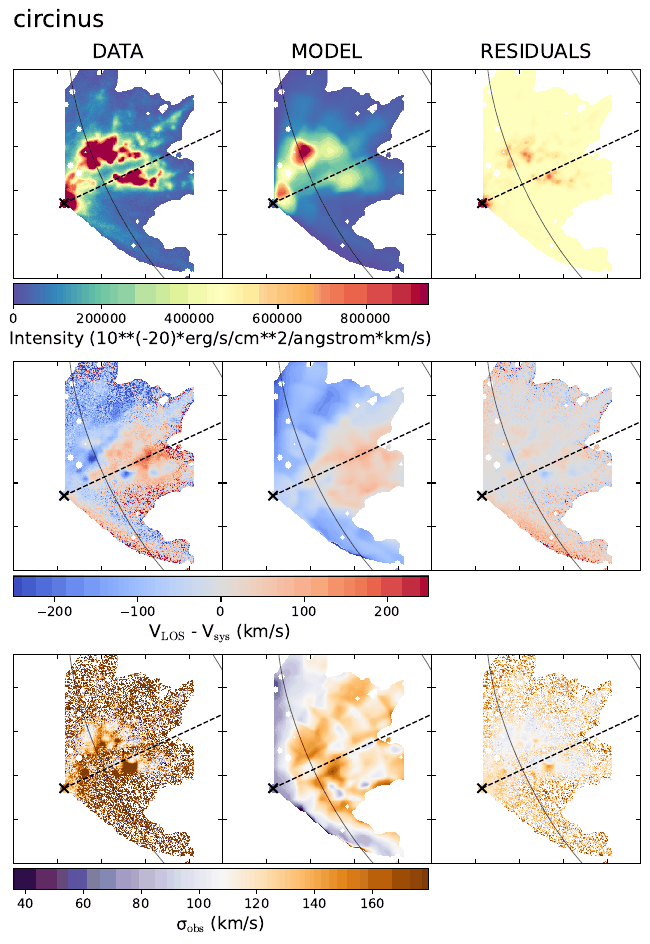
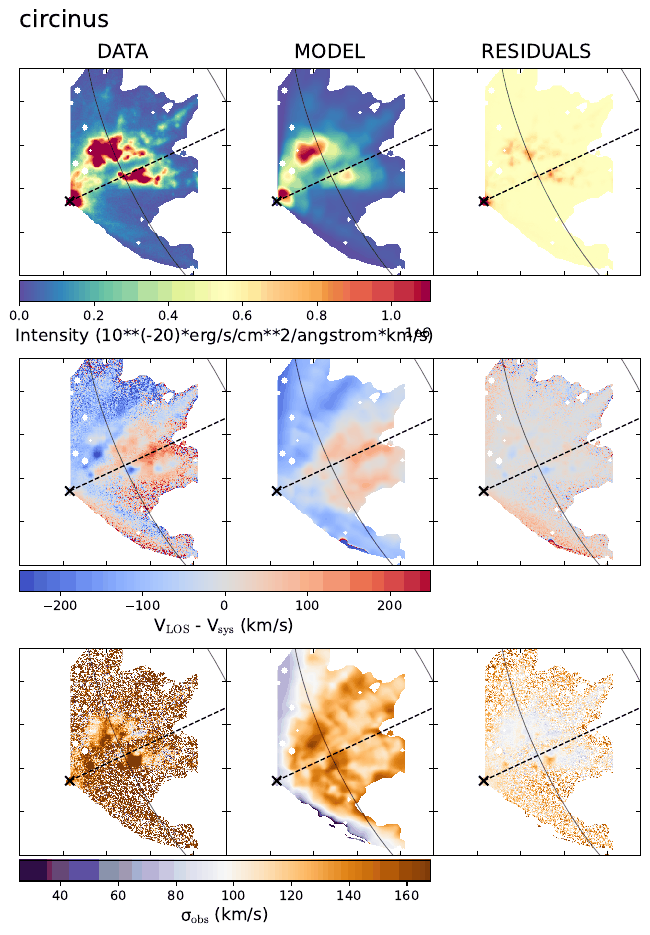
Circinus example: cells of 3.6 arcsec, the slices through the cone, an ionised nuclear wind
Cells of 3.6 arcsec (3192): coarser cells bias the wind low (5.4: 300 km/s, now 338 km/s, INC 72;
2.7 and 2.0 arcsec give the same), with the fits of the page rerun (VSYS free, VWIND 550, VDISP
free, VWIND_FUNC). The new _pvslices_wind.pdf on the page. The highest velocities: the likelihood
weighs the bright cores, kappa of MoKA-3D the envelope of the line. What Marconcini et al. (2023)
fitted (the sum of all the Gaussian components) corrected. Title: an ionised nuclear wind.

diff --git a/docs/scripts/make_example_figures.py b/docs/scripts/make_example_figures.py
@@ -32,7 +32,7 @@ FIT3D = [("_parameters.pdf", "parameters", 1000), ("_maps_*.pdf", "maps", 650), 
          ("_pvslices_*.pdf", "pvslices", 1300), ("_chanmaps_*.pdf", "chanmaps", 800)]
 CORNER = [("_corner.pdf", "corner", 1100)]
 WIND = [("_maps_wind.pdf", "maps", 650), ("_pv_wind.pdf", "pv", 800), ("_wind_shells.pdf", "shells", 1000),
-        ("_chanmaps_wind.pdf", "chanmaps", 800)]
+        ("_chanmaps_wind.pdf", "chanmaps", 800), ("_pvslices_wind.pdf", "pvslices", 1300)]
 CIRC = "cones=approaching likemask=dilated dilation=0,0"          # (the variants of the fit of Circinus)
 EX = {
     "ngc2403": ("ngc2403_3DFIT.par", "output/ngc2403", "ngc2403", FIT3D),

diff --git a/docs/examples/circinus.md b/docs/examples/circinus.md
@@ -1,4 +1,4 @@
-# Circinus: the ionised cone of a Seyfert galaxy
+# Circinus: an ionised nuclear wind
 
 The Circinus galaxy, a spiral at 4.2 Mpc with a Seyfert 2 nucleus, has a cone of ionised gas that
 leaves the nucleus towards the north-west: the gas pushed out by the active nucleus, seen in [OIII] 5007 by
@@ -82,7 +82,7 @@ f = WindFit("circinus_OIII.fits", method="global", mask="FILE(circinus_OIII_mask
             redshift=0.001448, specres=0.85, xpos="14:13:09.90", ypos="-65:20:19.77", vsys=0, inc=70, pa=25,
             openang=110, conelen=52, vwind=400, vdisp=0, free="VWIND_SINGLE INC",
             priors="INC=(uniform,30,60) VWIND=(uniform,0,1600)", sampleropts="nstart=6 seed=1", flagerrors=True,
-            likeopts="emission=cells cellsize=5.4 datafrac=0.3 cones=approaching likemask=dilated dilation=0,0")
+            likeopts="emission=cells cellsize=3.6 datafrac=0.3 cones=approaching likemask=dilated dilation=0,0")
 res = f.run(threads=16)     # in memory
 res.parameters              # a Table: name, value, err_lo, err_hi
 res.shells                  # the shells of the best fit
@@ -93,8 +93,8 @@ res.write()                 # the files of the command line, in output/circinus/
 :::
 ::::
 
-On our server, with 16 cores (16 processes for the gradient of the minimiser), the run takes **11 minutes**: 8.6
-minutes for 3174 likelihoods of 1081 cells on the 536 000 voxels of the mask (six starts), then the errors.
+On our server, with 16 cores (16 processes for the gradient of the minimiser), the run takes **16 minutes**: 12.5
+minutes for 2921 likelihoods of 3192 cells on the 536 000 voxels of the mask (six starts), then the errors.
 
 ## The setup
 
@@ -125,26 +125,30 @@ minutes for 3174 likelihoods of 1081 cells on the 536 000 voxels of the mask (si
   and from five random points of the priors.
 - **The emission.** `emission=cells` (the default) describes the emission as cells of the cone with free
   emissivities, marginalised. Cells of one beam would be 0.9 arcsec: tens of thousands of cells, several seconds
-  per likelihood. `cellsize=5.4` (6 beams) makes 1081 cells. The [OIII] of Circinus has a signal-to-noise ratio of
-  thousands, and no smooth cone follows its filaments to the noise: `datafrac=0.3` adds a model error of 30% of the
-  data to the variance of each voxel.
+  per likelihood. `cellsize=3.6` (4 beams) makes 3192 cells. Coarser cells bias the wind low, because a cell spreads
+  its emission over the velocities of all its directions and cannot make the narrow lines of a fast cone: with cells
+  of 8 and 5.4 arcsec the fit gives 281 and 300 km/s; with cells of 2.7 and 2.0 arcsec (7418 and 17 440 cells, two to
+  eight times slower) 339 and 316 km/s, with the same inclination as 3.6 arcsec. The [OIII] of Circinus has a
+  signal-to-noise ratio of thousands, and no smooth cone follows its filaments to the noise: `datafrac=0.3` adds a
+  model error of 30% of the data to the variance of each voxel.
 - **Errors.** {ref}`FLAGERRORS <par-windfit-flagerrors>` computes the errors of the Laplace approximation.
 
+(circinus-results)=
 ## Results
 
 | Parameter | Best fit |
 |---|---|
-| VWIND | 300 ± 4 km/s |
-| INC | 66.2° ± 0.3° |
-| EMSCALE, EMCLUMP, EMSLOPE | 134, 2.1, 2.9 (the prior of the emission: its mean, scatter and radial slope) |
+| VWIND | 338 ± 4 km/s |
+| INC | 71.6° ± 0.4° |
+| EMSCALE, EMCLUMP, EMSLOPE | 117, 2.1, 3.4 (the prior of the emission: its mean, scatter and radial slope) |
 
 The six starts end at the same point. The errors of the Laplace approximation are those of this likelihood, model
 error included: they are much smaller than the differences between the descriptions of the emission below, which
 are the real uncertainty of the fit.
 
 Marconcini et al. (2023) found a faster wind with an axis closer to the plane of the sky: v₀ = 550 ± 20 km/s,
-β = 84° ± 2°. Their data were not this cube: they fitted the [OIII] of a Gaussian decomposition of the MUSE cube
-(the components of the outflow, with the line spread function removed). The integrated [OIII] of this cube, in the
+β = 84° ± 2°. Their data were not this cube: they fitted a model of the line, the sum of the Gaussian components
+fitted to [OIII] in each spaxel, with the line spread function removed and above a signal-to-noise ratio of 3. The integrated [OIII] of this cube, in the
 mask, has its 1st and 99th percentile velocities at −451 and +235 km/s; a cone with their parameters spreads from
 −556 to +407 km/s on this cube, 40% wider (and the statistic of MoKA-3D rejects it, see below). The highest
 velocities of the data are not in the model at any radius: see {ref}`circinus-high-velocities`.
@@ -168,13 +172,21 @@ with blue contours, model in red. The model has the bright part of the lines but
 10 and 25 arcsec.
 ```
 
+```{figure} /figures/examples/circinus_pvslices.png
+:alt: Position-velocity slices through the cone of Circinus, data and model
+
+Position–velocity slices through the cone (`_pvslices_wind.pdf`): through the nucleus at 10 angles, 18° apart from
+the projected axis of the cone (top), across the axis at 5 distances from the nucleus and parallel to it at 5
+offsets (bottom), with their paths on the total intensity map. Data in blue, model in red contours.
+```
+
 ```{figure} /figures/examples/circinus_chanmaps.png
 :width: 70%
 :alt: Channel maps of Circinus, data and model
 
 Channel maps of the data (blue, the whole field: outside the mask, the [OIII] of the disk) and of the model (red,
-the cone only). The channels beyond −450 and +300 km/s are empty in the model: a cone at 300 km/s, inclined by 66°,
-has line-of-sight velocities from −294 to +155 km/s, broadened by SPECRES.
+the cone only). The channels beyond about −450 and +300 km/s are empty in the model: a cone at 338 km/s, inclined
+by 72°, has line-of-sight velocities from −324 to +201 km/s, broadened by SPECRES.
 ```
 
 ```{figure} /figures/examples/circinus_corner.png
@@ -195,15 +207,22 @@ axis close to the plane of the sky, which spreads the cores too. Two more fits (
 
 | Fit | VWIND (km/s) | VDISP (km/s) | INC | log-likelihood |
 |---|---|---|---|---|
-| one VWIND (above) | 300 | 0 | 66.2° | |
-| VWIND fixed at 550 (`VWIND=550 FREE=INC`) | 550 | 0 | 82.4° | −648 |
-| VDISP free (`FREE=VWIND_SINGLE INC VDISP_SINGLE`) | 112 | 98 | 64.1° | +1453 |
+| one VWIND (above) | 338 | 0 | 71.6° | |
+| VWIND fixed at 550 (`VWIND=550 FREE=INC`) | 550 | 0 | 81.9° | −535 |
+| VDISP free (`FREE=VWIND_SINGLE INC VDISP_SINGLE`) | 148 | 95 | 65.2° | +1129 |
 
 With VWIND fixed at 550 km/s the inclination goes to 82°, close to the 84° of Marconcini et al. (2023), and the
 wings beyond 10 arcsec are reproduced, but the cores are not, and the likelihood is much lower. With VDISP free the
-cone becomes slow and turbulent: the cores are better, the wings still missing. The lines are made of (at least) two
-components, a bright one at lower velocity and a faint fast one, and one cone fits the bright one: Marconcini et al.
-(2023) fitted the outflow components of a Gaussian decomposition of the lines, the fast ones.
+cone becomes slow and turbulent: the cores are better, the wings still missing.
+
+The likelihood of WINDFIT weighs how the flux is distributed in velocity: the bright cores, most of the flux, set
+the wind. The statistic of MoKA-3D used by Marconcini et al. (2023) measures something else. κ is the flux of the
+voxels that the cone does not reach, so it rewards a cone that reaches the emission, whatever it predicts elsewhere,
+and its best cone is the fastest one that the cut on the 1st and 99th percentile velocities of the integrated line
+allows: the velocity of the envelope of the line, its wings. On this cube `emission=moka` gives 384 km/s (below); in
+a test with their recipe (a model of the line without noise, the sum of the Gaussian components fitted in each
+spaxel with the line spread function removed, and VSYS free) it gives 408 km/s at INC 77°. Their 550 km/s needs a
+wider integrated line than this cube has (see {ref}`circinus-results`).
 
 ```{figure} /figures/examples/circinus_spectra.png
 :alt: Spectra of Circinus in rings around the nucleus, data and three models
@@ -231,7 +250,7 @@ BBarolo -p circinus_WINDFIT_GLOBAL.par FLAGERRORS=false OUTFOLDER=output/circinu
 
 | `emission` | VWIND (km/s) | INC | |
 |---|---|---|---|
-| `cells` (above) | 300 | 66.2° | the emissivities of 1081 cells, marginalised |
+| `cells` (above) | 338 | 71.6° | the emissivities of 3192 cells, marginalised |
 | `voxel` | 210 | 66.3° | the detections (S/N > 3) and the voxels without; EMCLUMP at the edge of its prior |
 | `shells` | 233 | 84.6° | one emissivity per shell; three of the six starts end at worse minima |
 | `moka` | 384 | 71.4° | κ of MoKA-3D (no likelihood: no errors); two starts end among rejected models |
@@ -262,8 +281,7 @@ r^−4.35 (EMSLOPE), only within 3 arcsec of the nucleus.
 ```
 
 **VSYS free.** With VSYS free as well (`FREE=VWIND_SINGLE INC VSYS`, PRIORS VSYS between −300 and +300 km/s), the
-fit with cells goes to VSYS = +300 km/s, the edge of the prior, INC 41° and VWIND 558 km/s, with a log-likelihood
-higher by 1119. The inclination and VSYS trade off: a cone closer to the line of sight approaches faster, and a
+fit with cells goes to VSYS = +288 km/s, INC 46° and VWIND 588 km/s, with a log-likelihood higher by 859. The inclination and VSYS trade off: a cone closer to the line of sight approaches faster, and a
 redshifted VSYS brings it back. The data alone do not fix VSYS: here it is the systemic velocity of the galaxy.
 
 ## Going further: the velocity as a function of radius
@@ -276,9 +294,9 @@ BBarolo -p circinus_WINDFIT_GLOBAL.par FLAGERRORS=false OUTFOLDER=output/circinu
         "PRIORS=INC=(uniform,30,60) VWIND_P1=(uniform,0,1600) VWIND_P2=(uniform,1,50)"
 ```
 
-The best fit has p1 = 484 km/s and p2 = 13 arcsec: the wind accelerates from 40 km/s near the nucleus to 300 km/s
-at 20 arcsec and 340 km/s at the edge of the field (about 26 arcsec along the axis; beyond, the profile is the
-function, not the data). The inclination does not change (66.2°), and the log-likelihood is higher by 187 than with
+The best fit has p1 = 418 km/s and p2 = 5.5 arcsec: the wind accelerates from 80 km/s near the nucleus to 300 km/s
+at 12 arcsec and 360 km/s at the edge of the field (about 26 arcsec along the axis; beyond, the profile is the
+function, not the data). The inclination barely changes (70.4°), and the log-likelihood is higher by 96 than with
 one velocity. One velocity per shell (`FREE VWIND`) has too much freedom: the velocities jump by hundreds of km/s
 from a shell to the next.
 

diff --git a/docs/getting-started/example-data.md b/docs/getting-started/example-data.md
@@ -22,7 +22,7 @@ this cube and other datasets, each with a parameter file, described in {doc}`../
 | [ALESS73_CII.fits](https://github.com/editeodoro/bbarolo2/raw/main/examples/ALESS73_CII.fits) | [CII] cube of ALESS 073.1, a galaxy at z = 4.8, ALMA | 1.7 MB | {doc}`../examples/aless73` |
 | [HD142527_13CO.fits](https://github.com/editeodoro/bbarolo2/raw/main/examples/HD142527_13CO.fits) | ¹³CO cube of the disk of HD 142527, ALMA | 5.6 MB | {doc}`../examples/hd142527` |
 | [2masxj1022_SALT.fits](https://github.com/editeodoro/bbarolo2/raw/main/examples/2masxj1022_SALT.fits) | long-slit spectrum of 2MASX J1022 (Hα + [NII]), SALT | 5.8 MB | {doc}`../examples/2masxj1022` |
-| [circinus_OIII.fits](https://github.com/editeodoro/bbarolo2/raw/main/examples/circinus_OIII.fits) | [OIII] cube of the Circinus galaxy, MUSE (ESO archive), with the mask of its ionised cone ([circinus_OIII_mask.fits](https://github.com/editeodoro/bbarolo2/raw/main/examples/circinus_OIII_mask.fits)) | 6.8 MB | {doc}`../examples/circinus` |
+| [circinus_OIII.fits](https://github.com/editeodoro/bbarolo2/raw/main/examples/circinus_OIII.fits) | [OIII] cube of the Circinus galaxy, MUSE (ESO archive), with the mask of its ionised wind ([circinus_OIII_mask.fits](https://github.com/editeodoro/bbarolo2/raw/main/examples/circinus_OIII_mask.fits)) | 6.8 MB | {doc}`../examples/circinus` |
 
 The parameter files are next to the data, with the names of the examples (e.g. `ngc2403_3DFIT.par`); run them from
 the folder that contains the FITS file, e.g. `BBarolo -p ngc2403_3DFIT.par`. With a copy of the repository

diff --git a/docs/examples/index.md b/docs/examples/index.md
@@ -21,7 +21,7 @@ diagrams and the channel maps of the data and of the model. The notebook
 | {doc}`aless73` | [CII], ALMA, starburst galaxy at z = 4.8 | 3DFIT BAYESIAN, prior on the inclination | 8 min 8 s |
 | {doc}`hd142527` | ¹³CO, ALMA, protoplanetary disk | 3DFIT BAYESIAN, geometry and thickness free | 41 min |
 | {doc}`2masxj1022` | Hα + [NII], SALT long slit, massive spiral | SLITFIT GLOBAL | 23 s |
-| {doc}`circinus` | [OIII], MUSE, ionised cone of a Seyfert galaxy | WINDFIT GLOBAL with a mask, MoKA-3D compared | 11 min |
+| {doc}`circinus` | [OIII], MUSE, ionised nuclear wind of a Seyfert galaxy | WINDFIT GLOBAL with a mask, MoKA-3D compared | 16 min |
 
 The times are the wall-clock times of `BBarolo -p` on our server (Intel Xeon Platinum 8480+) with 16 cores
 (`THREADS 16`, the default), start-up and output files included. The server was shared with other jobs, so the
